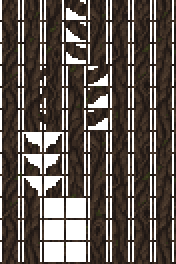
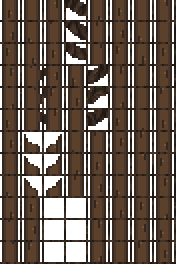
Give Ancient Camphor restrained vanilla-like bark and compact native roots

diff --git a/Content/Tiles/GrovePlants.cs b/Content/Tiles/GrovePlants.cs
@@ -12,7 +12,6 @@ namespace IslandAdventure.Content.Tiles
 {
     public class GroveGrass : ModTile
     {
-        public const int RootSink = 14;
         // Legacy ID retained for saved worlds; ForestMaterialMigration restores native grass.
         public override string Texture => $"Terraria/Images/Tiles_{TileID.Dirt}";
         public override void SetStaticDefaults()
@@ -23,26 +22,6 @@ namespace IslandAdventure.Content.Tiles
             DustType = DustID.Grass; HitSound = SoundID.Dig;
             RegisterItemDrop(ItemID.DirtBlock); VanillaFallbackOnModDeletion = TileID.Grass;
             AddMapEntry(new Color(62, 78, 35), CreateMapEntryName());
-        }
-        public override void PostDraw(int i, int j, SpriteBatch batch)
-            => DrawRoots(i,j,batch);
-        public static void DrawRoots(int i,int j,SpriteBatch batch)
-        {
-            var tile = Main.tile[i,j];
-            if(!TileDrawing.IsVisible(tile)||tile.TileColor!=PaintID.None)return;
-            Vector2 point = new Vector2(i*16,j*16) - Main.screenPosition;
-            if (!Main.drawToScreen) point += new Vector2(Main.offScreenRange);
-            Color light = tile.IsTileFullbright?Color.White:Lighting.GetColor(i,j);
-            if(tile.IsActuated)light*=.4f;
-            // A root fan follows the living tree; it occupies no extra collision tiles.
-            // Draw once at the trunk center, rather than offsetting it to a flared side root.
-            if (Main.tile[i,j-1].HasTile && Main.tile[i,j-1].TileType == TileID.Trees)
-            {
-                WorldGen.GetTreeBottom(i,j-1,out int rootX,out int rootY);
-                if(rootX!=i||rootY!=j)return;
-                var roots = ModContent.Request<Texture2D>("IslandAdventure/Assets/Grove/Tree_Roots", ReLogic.Content.AssetRequestMode.ImmediateLoad).Value;
-                batch.Draw(roots,point + new Vector2(8-roots.Width/2,-roots.Height+RootSink),light);
-            }
         }
     }
     public abstract class GrovePlant : ModTile

diff --git a/Systems/GrovePreviewSystem.cs b/Systems/GrovePreviewSystem.cs
@@ -7,6 +7,7 @@ using Terraria.ID;
 using Terraria.ModLoader;
 using Terraria.ModLoader.IO;
 using Terraria.ObjectData;
+using Terraria.Localization;
 
 namespace IslandAdventure.Systems
 {
@@ -71,7 +72,8 @@ namespace IslandAdventure.Systems
             if(!ResumeSystem.TrySafePosition(player,landing,out var safe)){message="Место входа занято блоками.";return false;}
             if(!wasInPlot){returnPosition=player.position;returnOwner=player.name;canReturn=true;}
             Move(player,safe);
-            message="Образец рощи обновлён: пройди вправо до большого валуна и второго дерева. /grovepreview back — вернуться.";
+            message=Language.GetTextValue("Mods.IslandAdventure.Grove.PreviewUpdated",
+                Language.GetTextValue("Mods.IslandAdventure.Grove.TreeName"));
             return true;
         }
         public bool Back(Player player)

diff --git a/tools/render_grove_tree_preview.py b/tools/render_grove_tree_preview.py
@@ -20,7 +20,6 @@ def render():
     trunk = sample["trunkX"]
     floor = sample["floor"]
     crown_width, crown_height = 256, 192
-    root_sink = sample.get("rootSink", 14)
     top = min(t["y"] * 16 + 16 - crown_height for t in tiles
               if t["fx"] == 22 and t["fy"] >= 198)
     origin_x = trunk * 16 + 8 - 200
@@ -53,8 +52,6 @@ def render():
                 add("Tree_Branches", "40x40+0+0", x - 24, y - 12)
             elif tile["fx"] == 66:
                 add("Tree_Branches", "40x40+42+0", x, y - 12)
-        add("Tree_Roots", "96x32+0+0", trunk * 16 + 8 - 48,
-            floor * 16 - 32 + root_sink)
         args.append(str(ART / "tree-frame-preview.png"))
         subprocess.run(args, check=True)
 

diff --git a/Content/Tiles/GroveAppearance.cs b/Content/Tiles/GroveAppearance.cs
@@ -53,11 +53,6 @@ namespace IslandAdventure.Content.Tiles
         public static Rectangle VineSource(int variant,int segment,bool tip)
             =>new Rectangle(variant*16,(tip?7:segment%7)*16,16,16);
 
-        public override void PostDraw(int i,int j,int type,SpriteBatch batch)
-        {
-            if(type==TileID.Grass&&InGrove(i,j))GroveGrass.DrawRoots(i,j,batch);
-        }
-
         public override bool PreDraw(int i,int j,int type,SpriteBatch batch)
         {
             var surface=Main.tile[i,j];

diff --git a/tools/art/grove/README.md b/tools/art/grove/README.md
@@ -35,7 +35,9 @@ builders and form masks are removed.
 `lush-understory-source.png`: approved large shrub/fern.
 `foliage-source.png`: small plants, moss and roots.
 `props-source.png`: fallen wood and four rock sizes.
-`bark-source.png` and `tree-foliage-source.png`: shared bark and crown/branches.
+`tree-foliage-source.png`: approved crown/branches.
+`bark-source.png`: approved leafy-branch connector material.
+`camphor-bark-source.png`: quiet stem material for the Ancient Camphor.
 `ground-plants-source.png`: current sixteen grass/woodland-flower variations.
 `vine-source.png`: four narrow vine varieties.
 
@@ -53,16 +55,34 @@ Each framed decoration tile is 16x16 with a 2px atlas gutter.
 ## Trees and contact previews
 
 Tree attachment masks in `layouts/` originate from MIT ExampleMod (license
-included there). Trunk-core alpha remains continuous; six-pixel connectors use
-the trunk bark, calibrated against the branch wood colors. Crown is 256x192.
-Tree_Roots.png is an unframed 96x32 fan; Roots.png is a separate 6x2-tile object.
+included there). Trunk-core alpha remains continuous. The approved crown (256x192) and leafy
+branch PNGs are unchanged. Branch-only frames inside Tree.png also remain exact
+copies of the approved reference in layouts/grove-trunk-reference.png.
+The live tree uses compact native root frames; the wide Tree_Roots.png overlay
+is removed. Roots.png remains a separate decorative 6x2-tile object.
 
 Sample trees use native GrowEpicTree (20–29 tiles). The native grass identity
 supports ordinary tree rules while the regional renderer supplies grove art.
-Live root fans use RootSink=14; decoration DrawYOffset is 12 for roots, 6 for
-logs/stone and 4 for the other plants. Gallery refresh resets sample objects
+Decoration DrawYOffset is 12 for roots, 6 for logs/stone and 4 for other plants. Gallery refresh resets sample objects
 without removing foreign blocks, and keeps its saved Back location.
 
 `python3 tools/render_grove_tree_preview.py` rebuilds tree-frame and ground-contact
 previews with actual packed art and selected native grass frames over schematic
 soil. These are static contact diagnostics, not graphical-client screenshots.
+
+
+## Ancient Camphor stem (0.4.22)
+
+The latest user correction requests moderate vanilla-like bark, not a single
+flat color and not the former dense diagonal texture. build_grove_trunk.sh
+uses four close brown tones (#34271e, #493529, #5b412b, #765438), a quiet
+vertical material, soft lateral contour and rare short logical-grid strokes.
+The 176x264 atlas keeps the reference alpha and native 22px frame stride.
+Twelve branch-only frames are copied verbatim, while crown and leafy-branch
+files are kept byte-for-byte. Only the stem/root wood appearance changes.
+Every art pixel remains exactly 2x2.
+
+The tree is named Древний камфорник / Ancient Camphor, a sacred-grove tree
+inspired by the Japanese woodland atmosphere of Princess Mononoke. Its
+approved lush crown/branches, tall native geometry and ordinary wood drops
+remain. The localized name is shown by /grovepreview.

diff --git a/README.md b/README.md
@@ -921,3 +921,24 @@ Tiles_2.zip. Исходный PNG 288x1980 сохранён целиком в
 соседствах, сохранение геометрии/координат, границы атласа, область применения,
 покраска и предыдущие проверки роста/галереи/сохранений. Новый мир не нужен.
 Графическая проверка в клиенте ещё нужна.
+
+
+0.4.22: дерево получило название «Древний камфорник» / Ancient Camphor.
+После уточнения пользователя изменён только ствол: умеренная фактура
+ближе к ванильной, четыре близких коричневых оттенка, мягкий боковой контур
+и редкие вертикальные штрихи. Это не однотонная полоса и не прежняя
+шумная диагональная кора. Крона и текстуры лиственных веток сохранены
+побайтно, 12 веточных кадров внутри Tree.png тоже не изменены.
+
+Широкая накладка Tree_Roots.png и её отрисовка удалены. У живого дерева
+остались компактные родные кадры основания; отдельный декоративный объект
+корней не менялся. Альфа атласа, ширина ствола, высота 20–29 тайлов,
+позиции/форма ветвей, вырубка и дроп древесины сохранены. Название выводится
+в локализованном сообщении /grovepreview. Новые миры создавать не нужно.
+
+Добавлены материал коры, эталон кадров и воспроизводимый сборщик ствола;
+статичное превью дерева обновлено. Проверены четыре тона ствола, сетка 2x2,
+неизменённая альфа, все веточные кадры и исходные PNG кроны/веток.
+Сборка и серверные регрессии прошли, включая отсутствие старой корневой
+накладки, локализацию имени, родную высоту/кадры и прежние механики.
+Графическая проверка в клиенте ещё нужна.

diff --git a/tools/art/grove/layouts/README.md b/tools/art/grove/layouts/README.md
@@ -3,3 +3,9 @@ Content/Tiles/Plants/ExampleTree.png; branches.png from ExampleTree_Branches.png
 https://github.com/tModLoader/tModLoader/tree/stable/ExampleMod/Content/Tiles/Plants
 MIT license in LICENSE.txt. Only the attachment/frame alpha layout is reused.
 Visible bark and foliage are from the new generated grove artwork.
+
+
+grove-trunk-reference.png preserves the approved atlas alpha and branch-only
+frames before the stem simplification. The new builder uses that frame layout
+and copies its bare/leaf-branch connector frames exactly. The visible stem
+uses the separate restrained camphor material/palette.
